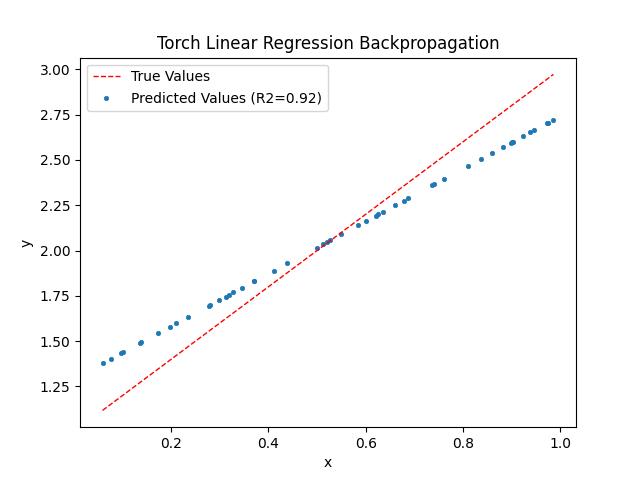
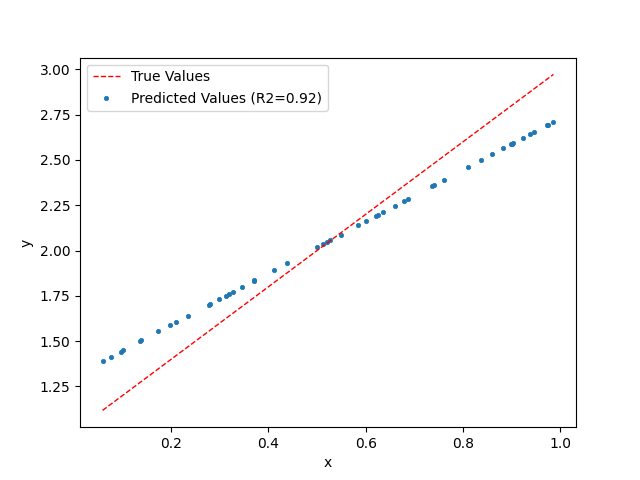
drawing, readme fixes

diff --git a/LinReg.py b/LinReg.py
@@ -6,7 +6,7 @@ from sklearn.model_selection import train_test_split
 from sklearn.metrics import r2_score
 import warnings
 import matplotlib.pyplot as plt
-from modules import timeit
+from modules import timeit, xy_plot
 import pandas as pd
 
 class NumpyLinReg:
@@ -118,9 +118,9 @@ if __name__ == "__main__":
 
     # REVERSE COMMENTS HERE TO SWITCH BETWEEN LR AND MLR (no visualization)
     x = np.arange(0, 1000, 1, dtype=np.float32).reshape(-1, 1)/1000
-    x = np.hstack((x, x*1.5))
-    y = np.sum(x, axis=1).reshape(-1, 1) + 0.1
-    # y = x*2 + 1
+    # x = np.hstack((x, x*1.5))
+    # y = np.sum(x, axis=1).reshape(-1, 1) + 0.1
+    y = x*2 + 1
 
     x_train, x_test, y_train, y_test = train_test_split(x, y, test_size=0.05, random_state=42)
 
@@ -132,15 +132,7 @@ if __name__ == "__main__":
     nlt_metrics_train = model.validate(x_train, y_train)
     nlt_weights = np.hstack((model.weights, model.bias))
 
-    # plt.plot((min(x_test), max(x_test)), (min(y_test), max(y_test)), linestyle='--', color='red', linewidth=1, label='True Values')
-    # plt.scatter(x_test, model.forward(x_test), s=10, linewidths=0.5, label=f'Predicted Values (R2={nlt_metrics[1]:.2f})')
-    # plt.xlabel('x')
-    # plt.ylabel('y')
-    # plt.title('Numpy Linear Regression Backpropagation')
-    # plt.legend()
-    # plt.savefig("NumpyLinReg.png")
-    # plt.close()
-
+    xy_plot(x_test, y_test, model.forward(x_test), nlt_metrics, 'NumpyLinReg.png')
 
     closed = NumpyLinRegCloseForm(bias=True)
     closed.fit(x_train, y_train)
@@ -148,14 +140,7 @@ if __name__ == "__main__":
     nltc_metrics_train = closed.validate(x_train, y_train)
     clr_weights = closed.weights.reshape(-1) if closed.bias else np.concat((closed.weights.reshape(-1), np.zeros(1)))
     
-    # plt.plot((min(x_test), max(x_test)), (min(y_test), max(y_test)), linestyle='--', color='red', linewidth=1, label='True Values')
-    # plt.scatter(x_test, model.forward(x_test), s=10, linewidths=0.5, label=f'Predicted Values (R2={nltc_metrics[1]:.2f})')
-    # plt.xlabel('x')
-    # plt.ylabel('y')
-    # plt.title('Numpy Linear Regression Closed Form')
-    # plt.legend()
-    # plt.savefig("NumpyLinRegCloseForm.png")
-    # plt.close()
+    xy_plot(x_test, y_test, closed.forward(x_test), nltc_metrics, 'NumpyLinRegCloseForm.png')
     
     x_train, y_train = torch.from_numpy(x_train), torch.from_numpy(y_train)
     x_test, y_test = torch.from_numpy(x_test), torch.from_numpy(y_test)
@@ -166,14 +151,7 @@ if __name__ == "__main__":
     tlr_metrics_train = model.validate(x_train, y_train)
     tlt_weights = np.hstack((model.l.weight.detach().numpy().reshape(-1), model.l.bias.detach().numpy())) if model.bias else np.concat((model.l.weight.detach().numpy().reshape(-1), np.zeros(1)))
     
-    # plt.plot((min(x_test), max(x_test)), (min(y_test), max(y_test)), linestyle='--', color='red', linewidth=1, label='True Values')
-    # plt.scatter(x_test, model.forward(x_test).detach().numpy(), s=10, linewidths=0.5, label=f'Predicted Values (R2={tlr_metrics[1]:.2f})')
-    # plt.xlabel('x')
-    # plt.ylabel('y')
-    # plt.title('Torch Linear Regression Backpropagation')
-    # plt.legend()
-    # plt.savefig("TorchLinReg.png")
-    # plt.close()
+    xy_plot(x_test, y_test, model.forward(x_test).detach().numpy(), tlr_metrics, 'TorchLinReg.png')
 
     data = np.vstack((nlt_metrics, nltc_metrics, tlr_metrics))
     data = np.hstack((data, np.vstack((nlt_metrics_train, nltc_metrics_train, tlr_metrics_train))))

diff --git a/modules.py b/modules.py
@@ -1,4 +1,5 @@
 import time
+import matplotlib.pyplot as plt
 
 def timeit(f):
 
@@ -13,3 +14,14 @@ def timeit(f):
         return result
 
     return timed
+
+def xy_plot(x_test, y_test, pred, tlr_metrics, save_to, name=None):
+    plt.plot((min(x_test), max(x_test)), (min(y_test), max(y_test)), linestyle='--', color='red', linewidth=1, label='True Values')
+    plt.scatter(x_test, pred, s=10, linewidths=0.5, label=f'Predicted Values (R2={tlr_metrics[1]:.2f})')
+    plt.xlabel('x')
+    plt.ylabel('y')
+    if name:
+      plt.title('Torch Linear Regression Backpropagation')
+    plt.legend()
+    plt.savefig(save_to)
+    plt.close()

diff --git a/README.md b/README.md
@@ -5,11 +5,11 @@ Regresja liniowa to jeden z najprostszych i najbardziej intuicyjnych modeli stos
 ### Postać zamknięta
 Łatwo jest dojść do postaci zamkniętaj regresji liniowej, postać ta uzyskiwanana jest przy minimalizacji tzw. least-squares (błędu kwadratowego).
 
-$y = XW$
+$y = XW + b$
 
 $LS(W, b) = \dfrac{1}{n}||y - XW - b||^2 \Rightarrow LS'(W)\dfrac{1}{n}||y - X'W||^2$
 
-$X' = [X\space1]$
+$X' = [X\space1]$  let's pretend W' = W when it comes to notation
 
 $LS'(W) = \dfrac{1}{n}(y - X'W)^T(y - X'W) = y^Ty - y^TX'W - W^TX'^Ty + W^TX'^TX'W$
 
@@ -51,7 +51,7 @@ Pochodna kierunkowa mówi na jak zachowuje się dana funkcja, gdy chcielibyśmy 
 ![Directional derivative](./img/Dv.png)
 
 #### Gradient descent
-[^1] Metody gradientowe zakładają iteracyjnie przybliżanie się do "prawdy" poprzez mnimalizację **funkcji kosztu**, którą tak samo jak w postaci zamkniętej jest błąd kwadratowy $L(y,x) = (y - f(x))^2 \Rightarrow L(y,x;w) = (y - f(x;w))^2$ (pomijając bias), czyli losujemy pierwotny parametr $w$ i aktualizujemy go $w_{t+1} = w_t + \eta \cdot p$ w taki sposób, że $L(y,x;w_{t+1}) \leq L(y,x;w_t)$
+Metody gradientowe zakładają iteracyjnie przybliżanie się do "prawdy" poprzez mnimalizację **funkcji kosztu**, którą tak samo jak w postaci zamkniętej jest błąd kwadratowy $L(y,x) = (y - f(x))^2 \Rightarrow L(y,x;w) = (y - f(x;w))^2$ (pomijając bias), czyli losujemy pierwotny parametr $w$ i aktualizujemy go $w_{t+1} = w_t + \eta \cdot p$ w taki sposób, że $L(y,x;w_{t+1}) \leq L(y,x;w_t)$
 
 $D_p = <\nabla f, p> = ||\nabla f||\cdot||p||\cdot cos(\theta)$
 
